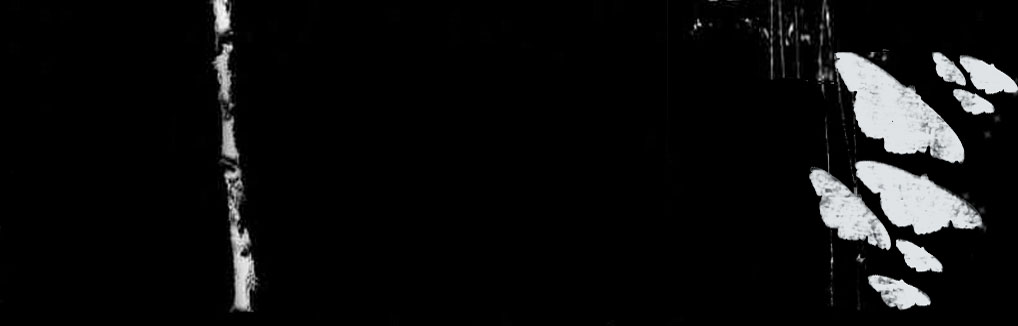
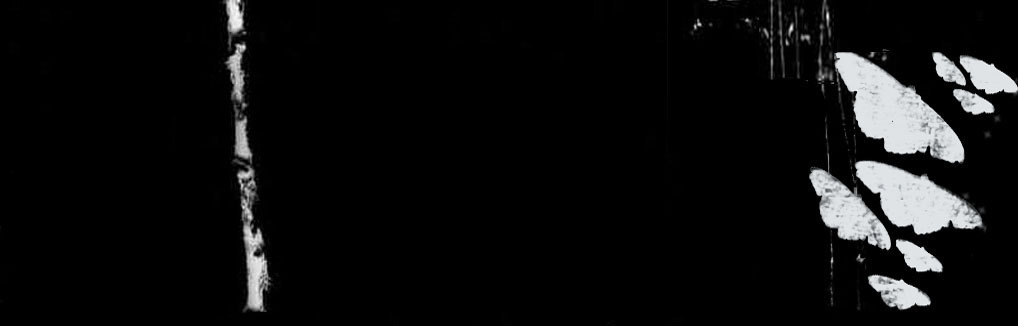
image updates and CSS

Changed region(s): [[0.1827, 0.0, 0.2741, 0.9816]]

diff --git a/index.html b/index.html
@@ -45,8 +45,9 @@ p {
     Margin:0;
 }
 .quote{
-  background: linear-gradient(black, #ff000000, black),url(img/center.jpg) center center no-repeat;
-    background-size: contain;
+  background: linear-gradient(black, #ff000000, black),url(img/center2.jpg) center center no-repeat;
+  background-size: contain;
+  background-position-x: right;
 }
 .quote p{
   text-align: center;
@@ -133,13 +134,6 @@ img.logo {
     background-size: cover;
     background-position-y: bottom;
 }
-.main-table {
-    width: 100%;
-    max-width: 610px;
-    margin: 0 auto;
-    background-color: #FFF;
-    border-radius: 6px;
-}
 .one-column .inner-td {
     font-size: 16px;
     line-height: 20px;
@@ -190,7 +184,6 @@ p.center {
 /*--- Start 3 Column Image & Text Section --*/
 .outer-table-2 {
   width: 100%;
-  margin: 22px auto;
   border-bottom: 4px solid #4c7579;
   border-top: 4px solid #4c7579;
   background: url(img/outter-table-2.jpg)center center no-repeat;
@@ -356,65 +349,6 @@ img.img-responsive {
             </td>
           </tr>
         </table><!--End Banner Image-->
-        <table class="main-table">
-          <tr>
-            <td class="one-column">
-              <table width="100%">
-                <tr>
-                  <td class="inner-td">
-                    <p class="h2">Weekly Newsletter</p>
-                    <p class="center">Lorem ipsum dolor sit amet consectetur, adipisicing elit. Consequatur, dolore, non illum veniam sequi nisi quaerat reprehenderit quidem quia tempore distinctio consequuntur accusantium commodi! Corrupti cum expedita magnam nam debitis.</p>
-                    <p class="button-holder-center"><a href="#" class="center">Find in stores!</a></p>
-                  </td>
-                </tr>
-              </table>
-            </td>
-          </tr><!--End Heading, Paragraph-->
-          <tr>
-              <td class="two-column">
-                <div class="section">
-                  <table width = "100%">
-                    <tr>
-                      <td class="inner-td">
-                        <table class="content">
-                          <tr>
-                            <td>
-                              <img src="img/lips2.jpg" alt="red and gold lipstick" class="img-responsive">
-                            </td>
-                          </tr>
-                          <tr>
-                            <td class="text">
-                              <p>Lorem ipsum, dolor sit amet consectetur adipisicing elit. Culpa ratione velit vitae animi veniam ex quae id atque repellat, aperiam a ipsum ut voluptatibus ab cumque eaque harum ipsam exercitationem!</p>
-                            </td>
-                          </tr>
-                        </table>
-                      </td>
-                    </tr>
-                  </table>
-                </div><!--End First Column-->
-                <div class="section">
-                    <table width = "100%">
-                        <tr>
-                            <td class="inner-td">
-                              <table class="content">
-                                <tr>
-                                  <td>
-                                    <img src="img/lips2.jpg" alt="red and gold lipstick" class="img-responsive">
-                                  </td>
-                                </tr>
-                                <tr>
-                                  <td class="text">
-                                    <p>Lorem ipsum, dolor sit amet consectetur adipisicing elit. Culpa ratione velit vitae animi veniam ex quae id atque repellat, aperiam a ipsum ut voluptatibus ab cumque eaque harum ipsam exercitationem!</p>
-                                  </td>
-                                </tr>
-                              </table>
-                            </td>
-                          </tr>
-                    </table>
-                  </div><!--End Second Column-->
-                </td>
-              </tr><!--End Two Column Section-->
-        </table><!--End Main-Table-->
         <table class="outer-table-2">
           <tr>
             
